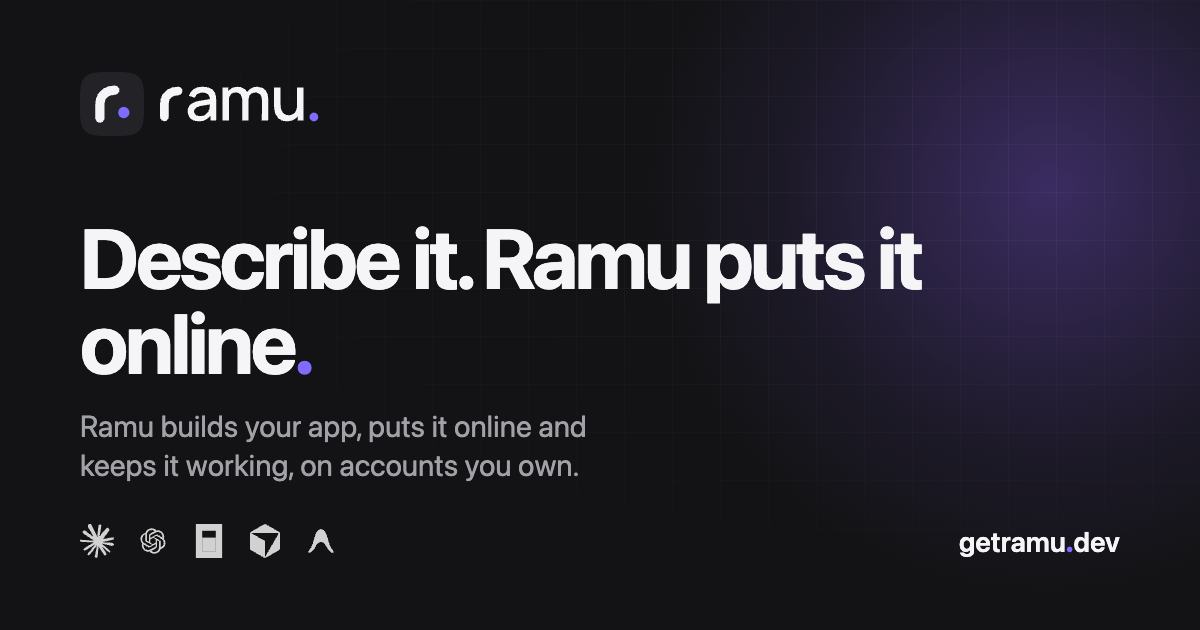
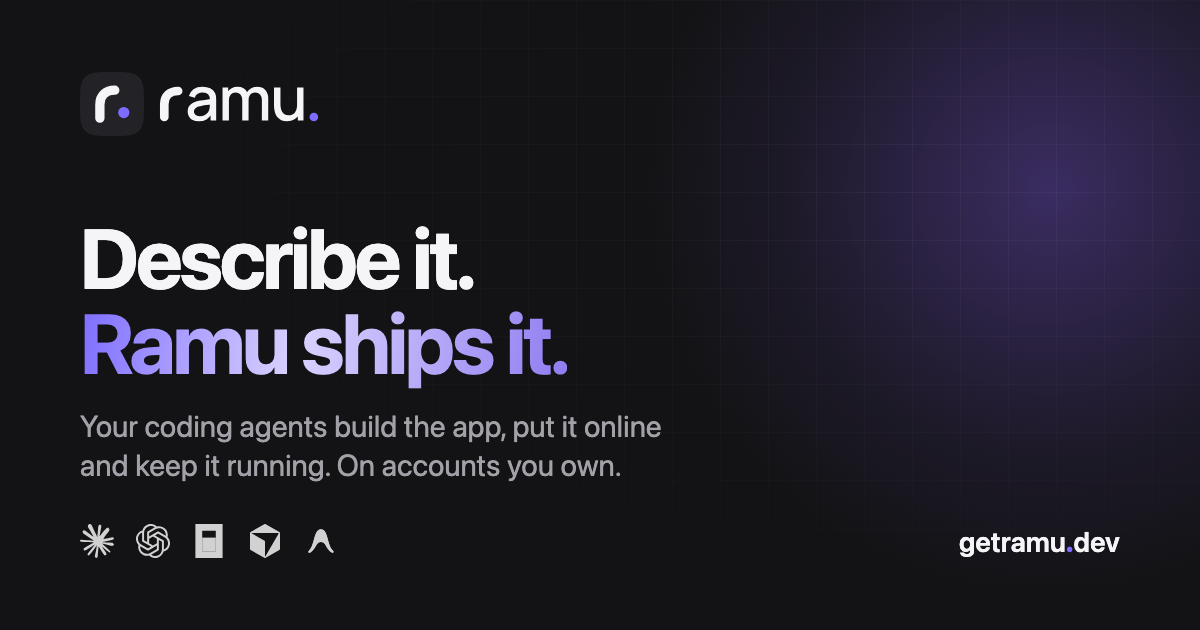
feat(site): share image and description carry the new headline

Changed region(s): [[0.0617, 0.3619, 0.7708, 0.6333], [0.0617, 0.6635, 0.555, 0.7841], [0.0925, 0.8143, 0.1542, 0.9048]]

diff --git a/apps/site/scripts/og.html b/apps/site/scripts/og.html
@@ -61,8 +61,11 @@
         font-weight: 700;
         letter-spacing: -0.035em;
       }
-      h1 .dot {
-        color: #7d6cff;
+      h1 .grad {
+        background: linear-gradient(100deg, #7d6cff 0%, #d9d2ff 45%, #8f7cf0 100%);
+        -webkit-background-clip: text;
+        background-clip: text;
+        color: transparent;
       }
       .sub {
         position: relative;
@@ -70,7 +73,7 @@
         font-size: 30px;
         line-height: 1.3;
         color: #a1a1a8;
-        max-width: 30ch;
+        max-width: 34ch;
       }
       .foot {
         position: relative;
@@ -106,8 +109,8 @@
     <div class="glow"></div>
     <div class="grid"></div>
     <img class="logo" src="../public/ramu-logo.svg" alt="" />
-    <h1>Describe it. Ramu puts it online<span class="dot">.</span></h1>
-    <p class="sub">Ramu builds your app, puts it online and keeps it working, on accounts you own.</p>
+    <h1>Describe it.<br /><span class="grad">Ramu ships it.</span></h1>
+    <p class="sub">Your coding agents build the app, put it online and keep it running. On accounts you own.</p>
     <div class="foot">
       <div class="providers">
         <img src="../../web/src/assets/providers/claude.svg" alt="" />
